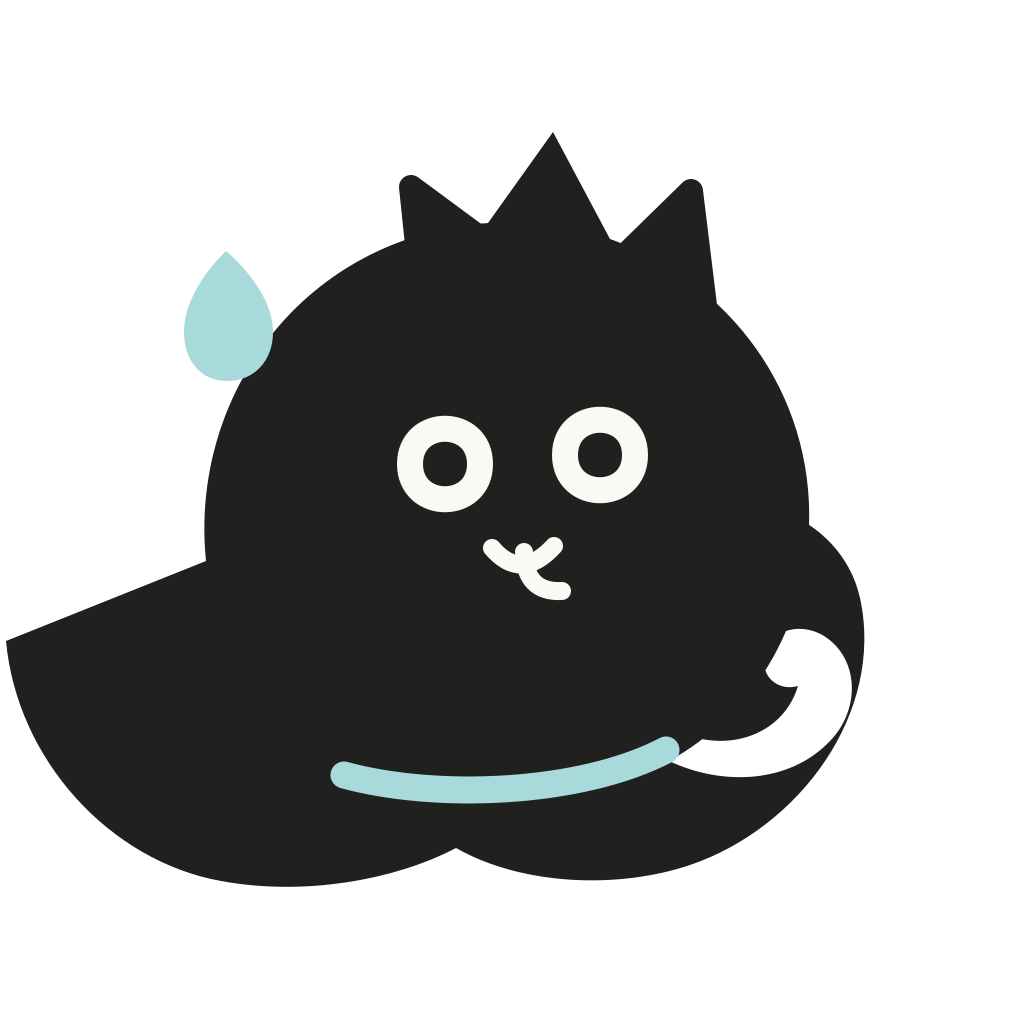
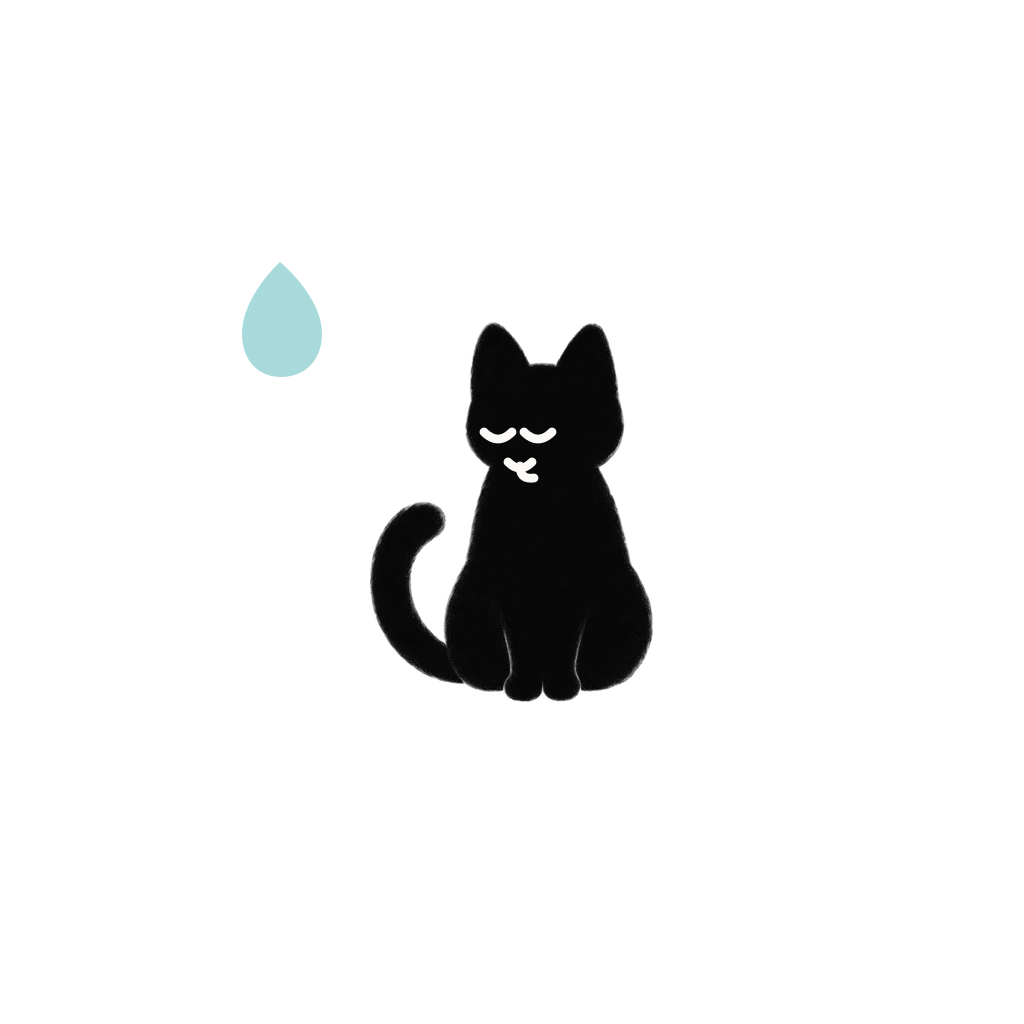
Add files via upload

diff --git a/Mizu/src/components/CatIllustration.tsx b/Mizu/src/components/CatIllustration.tsx
@@ -1,17 +1,25 @@
 import React, { useEffect, useRef } from 'react';
-import { Animated } from 'react-native';
+import { Animated, Image, ImageSourcePropType, StyleSheet, View } from 'react-native';
 import Svg, { G, Path } from 'react-native-svg';
 import { colors as palette } from '../theme';
 import { CatColor, CatMood } from '../types';
 
-type CatPaint = { ink: string; detail: string; eyes: string; outline: string };
+type CatPaint = { body: string; outline: string; face: string; detail: string };
 
 const paints: Record<CatColor, CatPaint> = {
-  white: { ink: '#F2EDE6', detail: '#D2C1B4', eyes: '#343331', outline: '#A99A8E' },
-  black: { ink: '#20211F', detail: '#343632', eyes: '#FAF7F0', outline: '#20211F' },
-  gray: { ink: '#858B87', detail: '#666D68', eyes: '#FAF7F0', outline: '#6B716D' },
-  orange: { ink: '#D38F51', detail: '#AD6838', eyes: '#282724', outline: '#B7753E' },
-  siamese: { ink: '#DED0BE', detail: '#58463D', eyes: '#FAF7F0', outline: '#A49382' },
+  white: { body: '#F1ECE5', outline: '#A99B8F', face: '#292826', detail: '#D4C5B8' },
+  black: { body: '#20211F', outline: '#20211F', face: '#FAF7F0', detail: '#343632' },
+  gray: { body: '#777E79', outline: '#5E6560', face: '#FAF7F0', detail: '#626964' },
+  orange: { body: '#CB8248', outline: '#A96335', face: '#282623', detail: '#A96335' },
+  siamese: { body: '#DACBB8', outline: '#988675', face: '#302C29', detail: '#5B4940' },
+};
+
+const bodySources: Record<CatMood, ImageSourcePropType> = {
+  sleeping: require('../../assets/cats/sleeping.png'),
+  stretching: require('../../assets/cats/stretching.png'),
+  playing: require('../../assets/cats/playing.png'),
+  happy: require('../../assets/cats/happy.png'),
+  celebrating: require('../../assets/cats/celebrating.png'),
 };
 
 const moodLabels: Record<CatMood, string> = {
@@ -22,165 +30,116 @@ const moodLabels: Record<CatMood, string> = {
   celebrating: 'comemorando com as patas para cima',
 };
 
-const Ground = ({ wide = false }: { wide?: boolean }) => (
-  <Path
-    d={wide ? 'M31 184c43-7 151-7 198 1-28 9-163 10-198-1z' : 'M55 185c35-7 117-7 151 0-26 9-121 9-151 0z'}
-    fill="#242424"
-    opacity="0.065"
-  />
-);
-
-const OpenEyes = ({ paint, left, right, scale = 1 }: { paint: CatPaint; left: [number, number]; right: [number, number]; scale?: number }) => (
-  <G fill="none" stroke={paint.eyes} strokeWidth={5 * scale} strokeLinecap="round">
-    <Path d={`M${left[0] - 7 * scale} ${left[1]}c0-${9 * scale} ${14 * scale}-${9 * scale} ${14 * scale} 0s-${14 * scale} ${9 * scale}-${14 * scale} 0z`} />
-    <Path d={`M${right[0] - 7 * scale} ${right[1]}c0-${9 * scale} ${14 * scale}-${9 * scale} ${14 * scale} 0s-${14 * scale} ${9 * scale}-${14 * scale} 0z`} />
+const RingEyes = ({ paint, left, right, size = 7 }: { paint: CatPaint; left: [number, number]; right: [number, number]; size?: number }) => (
+  <G fill="none" stroke={paint.face} strokeWidth="4.2" strokeLinecap="round">
+    <Path d={`M${left[0] - size} ${left[1]}c0-${size + 2} ${size * 2}-${size + 2} ${size * 2} 0s-${size * 2} ${size + 2}-${size * 2} 0z`} />
+    <Path d={`M${right[0] - size} ${right[1]}c0-${size + 2} ${size * 2}-${size + 2} ${size * 2} 0s-${size * 2} ${size + 2}-${size * 2} 0z`} />
   </G>
 );
 
 const ClosedEyes = ({ paint, left, right }: { paint: CatPaint; left: [number, number]; right: [number, number] }) => (
-  <G fill="none" stroke={paint.eyes} strokeWidth="5" strokeLinecap="round">
+  <G fill="none" stroke={paint.face} strokeWidth="4.4" strokeLinecap="round">
     <Path d={`M${left[0] - 7} ${left[1]}q7 7 14 0`} />
     <Path d={`M${right[0] - 7} ${right[1]}q7 7 14 0`} />
   </G>
 );
 
-const FurMarks = ({ paint, color, mood }: { paint: CatPaint; color: CatColor; mood: CatMood }) => {
-  if (color === 'black' || color === 'white') return null;
-  if (color === 'siamese') {
-    const mask = mood === 'sleeping'
-      ? 'M132 88c8-14 29-17 40-4 9 10 8 30-1 39-12 11-36 8-42-5-4-10-2-21 3-30z'
-      : mood === 'stretching'
-        ? 'M72 126c-8-15-1-34 14-40l22-15 19 18c7 15 0 35-14 42-15 8-33 5-41-5z'
-        : mood === 'playing'
-          ? 'M77 102c-7-16 0-35 14-42l22-16 20 20c7 17-2 38-18 44-15 6-31 3-38-6z'
-          : mood === 'happy'
-            ? 'M99 71c-3-18 7-36 24-42l20-10 17 19c10 15 4 39-11 48-17 10-43 5-50-15z'
-            : 'M101 71c-4-18 6-37 23-44l19-11 19 20c9 16 3 39-12 48-17 10-42 4-49-13z';
-    return <Path d={mask} fill={paint.detail} opacity="0.98" />;
+const Face = ({ mood, paint }: { mood: CatMood; paint: CatPaint }) => {
+  if (mood === 'sleeping') {
+    return (
+      <G>
+        <ClosedEyes paint={paint} left={[194, 87]} right={[216, 88]} />
+        <Path d="M201 102q6 5 12 0" fill="none" stroke={paint.face} strokeWidth="3" strokeLinecap="round" />
+        <G fill="none" stroke={palette.waterDark} strokeWidth="3" strokeLinecap="round" opacity="0.72">
+          <Path d="M54 62q8-8 16 0" />
+          <Path d="M42 50q6-6 12 0" />
+        </G>
+      </G>
+    );
   }
 
-  const marks = mood === 'sleeping'
-    ? 'M149 76l-3 13M159 77l1 13M169 81l4 11'
-    : mood === 'stretching'
-      ? 'M91 80l2 13M101 78l4 13M112 79l5 12'
-      : mood === 'playing'
-        ? 'M95 53l2 13M106 51l4 13M117 54l5 11'
-        : mood === 'happy'
-          ? 'M119 35l2 14M132 31l4 15M145 35l5 13'
-          : 'M120 33l2 14M133 30l4 15M146 34l5 13';
-  return <Path d={marks} fill="none" stroke={paint.detail} strokeWidth="4" strokeLinecap="round" opacity="0.78" />;
+  if (mood === 'stretching') {
+    return (
+      <G>
+        <RingEyes paint={paint} left={[80, 128]} right={[98, 126]} size={5.4} />
+        <Path d="M86 141q5 4 10-1" fill="none" stroke={paint.face} strokeWidth="2.8" strokeLinecap="round" />
+        <G fill="none" stroke={palette.beige} strokeWidth="3" strokeLinecap="round">
+          <Path d="M53 125l-10-4M54 136l-12 1" />
+        </G>
+      </G>
+    );
+  }
+
+  if (mood === 'playing') {
+    return (
+      <G>
+        <RingEyes paint={paint} left={[191, 112]} right={[210, 109]} size={5.7} />
+        <Path d="M198 126q5 4 10-1" fill="none" stroke={paint.face} strokeWidth="2.8" strokeLinecap="round" />
+        <Path d="M225 65c0-9 9-17 9-17s10 8 10 17c0 6-4 10-10 10s-9-4-9-10z" fill={palette.waterDark} />
+        <G fill="none" stroke={palette.waterDark} strokeWidth="3" strokeLinecap="round">
+          <Path d="M216 57l-8-5M216 69l-10 2" />
+        </G>
+      </G>
+    );
+  }
+
+  if (mood === 'happy') {
+    return (
+      <G>
+        <ClosedEyes paint={paint} left={[123, 65]} right={[143, 65]} />
+        <Path d="M128 80q6 6 12 0M134 82q0 7 7 6" fill="none" stroke={paint.face} strokeWidth="2.8" strokeLinecap="round" />
+        <Path d="M80 70c0-7 7-13 7-13s8 6 8 13c0 5-3 8-8 8s-7-3-7-8z" fill={palette.waterDark} opacity="0.78" />
+      </G>
+    );
+  }
+
+  return (
+    <G>
+      <RingEyes paint={paint} left={[122, 57]} right={[141, 56]} size={5.6} />
+      <Path d="M128 73q6 7 13 0M134 75q0 8 7 7" fill="none" stroke={paint.face} strokeWidth="2.9" strokeLinecap="round" />
+      <G fill={palette.waterDark}>
+        <Path d="M49 47c0-8 8-15 8-15s9 7 9 15c0 5-4 9-9 9s-8-4-8-9z" />
+        <Path d="M210 44c0-7 7-13 7-13s8 6 8 13c0 5-3 8-8 8s-7-3-7-8z" />
+      </G>
+      <G fill="none" stroke={palette.beige} strokeWidth="3" strokeLinecap="round">
+        <Path d="M39 69l-10-3M42 79l-10 4M222 68l10-6M225 79l11 1" />
+      </G>
+    </G>
+  );
 };
 
-const SleepingCat = ({ paint, color }: { paint: CatPaint; color: CatColor }) => (
-  <G>
-    <Ground />
-    <Path
-      d="M45 142c-4-31 15-65 47-78 22-9 41-6 57 3l18-20 10 29c25 15 38 42 30 66-9 28-46 38-93 37-45-1-66-11-69-37zm120-2c17-4 28-13 28-25 0-10-7-18-16-20 8 18 1 32-12 45z"
-      fill={paint.ink}
-      stroke={paint.outline}
-      strokeWidth="2.6"
-      strokeLinejoin="round"
-    />
-    <FurMarks paint={paint} color={color} mood="sleeping" />
-    <Path d="M62 151c26 18 91 17 119-7-24 5-42 0-57-12-13-10-27-12-40-5-10 5-16 14-22 24z" fill={paint.detail} opacity="0.36" />
-    <ClosedEyes paint={paint} left={[143, 102]} right={[170, 103]} />
-    <Path d="M154 117q5 4 10 0" fill="none" stroke={paint.eyes} strokeWidth="3.2" strokeLinecap="round" />
-    <G fill="none" stroke={palette.waterDark} strokeWidth="3" strokeLinecap="round" opacity="0.68">
-      <Path d="M54 66q8-8 16 0" />
-      <Path d="M42 54q6-6 12 0" />
-    </G>
-  </G>
-);
+const CoatDetails = ({ color, mood, paint }: { color: CatColor; mood: CatMood; paint: CatPaint }) => {
+  if (color !== 'orange' && color !== 'siamese') return null;
+  const head = mood === 'sleeping'
+    ? 'M182 57q22-14 45 2l8 42q-25 18-54 3z'
+    : mood === 'stretching'
+      ? 'M62 108q18-19 42-6l9 37q-25 12-52-1z'
+      : mood === 'playing'
+        ? 'M176 89q23-16 48 1l7 38q-28 13-56-2z'
+        : mood === 'happy'
+          ? 'M109 40q23-17 47 1l4 45q-27 14-53-1z'
+          : 'M108 33q24-17 48 1l5 43q-28 14-54 0z';
 
-const StretchingCat = ({ paint, color }: { paint: CatPaint; color: CatColor }) => (
-  <G>
-    <Ground wide />
-    <Path
-      d="M62 142c-14-9-17-24-8-37 8-11 22-16 37-20l17-23 16 16c26-11 63-7 79 16 13 19 8 43-7 53-8 6-15 2-15-7 0-19 7-40 15-55 9-18 21-31 32-27 9 4 8 16 0 21-8 5-14 17-18 30-2 8-2 20 1 33 5 22-9 40-29 39-15 0-24-10-26-25l-2-13c-16 5-35 6-53 2l-27 32c-8 9-24 6-25-4-1-6 4-12 13-21l15-17-24 16c-12 8-24 2-23-8 1-5 6-10 12-14z"
-      fill={paint.ink}
-      stroke={paint.outline}
-      strokeWidth="2.7"
-      strokeLinejoin="round"
-      strokeLinecap="round"
-    />
-    <FurMarks paint={paint} color={color} mood="stretching" />
-    <OpenEyes paint={paint} left={[88, 108]} right={[113, 104]} scale={0.85} />
-    <Path d="M99 121q5 4 10-1" fill="none" stroke={paint.eyes} strokeWidth="3" strokeLinecap="round" />
-    <G fill="none" stroke={palette.beige} strokeWidth="3" strokeLinecap="round">
-      <Path d="M42 105l-10-5M44 116l-13 1" />
-    </G>
-  </G>
-);
+  if (color === 'siamese') return <Path d={head} fill={paint.detail} opacity="0.9" />;
 
-const PlayingCat = ({ paint, color }: { paint: CatPaint; color: CatColor }) => (
-  <G>
-    <Ground wide />
-    <Path
-      d="M47 139c-8-19 2-43 24-55l18-29 18 15 18-23 15 29c25 10 43 34 44 61l23-22c8-8 20-8 24-1 4 8-1 16-11 20l-30 13c-5 22-26 34-55 33-29-1-51-13-61-31l-25 12c-11 5-20-1-18-10 1-5 7-9 16-12z"
-      fill={paint.ink}
-      stroke={paint.outline}
-      strokeWidth="2.7"
-      strokeLinejoin="round"
-      strokeLinecap="round"
-    />
-    <FurMarks paint={paint} color={color} mood="playing" />
-    <OpenEyes paint={paint} left={[94, 91]} right={[121, 86]} scale={0.92} />
-    <Path d="M105 108q5 5 11 0" fill="none" stroke={paint.eyes} strokeWidth="3" strokeLinecap="round" />
-    <Path d="M210 81c0-10 10-19 10-19s11 9 11 19c0 7-5 12-11 12s-10-5-10-12z" fill={palette.waterDark} />
-    <G fill="none" stroke={palette.waterDark} strokeWidth="3" strokeLinecap="round">
-      <Path d="M195 74l-9-5M195 84l-11 2" />
-    </G>
-  </G>
-);
-
-const HappyCat = ({ paint, color }: { paint: CatPaint; color: CatColor }) => (
-  <G>
-    <Ground />
-    <Path
-      d="M70 166c-2-19 10-33 30-39l3-37c1-17 8-30 20-38l-2-28 22 17 21-20 5 30c14 8 21 23 20 43l-2 42c14 7 31 8 42-2 8-8 7-20-1-25-6-4-13-1-13 5 0 5 4 7 8 6-2 12-17 16-27 9-11-8-13-25-4-37 11-15 33-17 47-5 17 15 15 44-3 61-16 15-42 19-64 10-11 15-31 23-55 23-30 0-49-10-51-25z"
-      fill={paint.ink}
-      stroke={paint.outline}
-      strokeWidth="2.7"
-      strokeLinejoin="round"
-      strokeLinecap="round"
-    />
-    <FurMarks paint={paint} color={color} mood="happy" />
-    <Path d="M119 116c-2 22-1 42 2 59M151 115c3 22 3 42 0 60" fill="none" stroke={paint.detail} strokeWidth="4" strokeLinecap="round" opacity="0.68" />
-    <ClosedEyes paint={paint} left={[130, 71]} right={[158, 70]} />
-    <Path d="M140 88q5 6 11 0M145 88q0 8 7 7" fill="none" stroke={paint.eyes} strokeWidth="3" strokeLinecap="round" />
-    <Path d="M85 70c0-7 7-13 7-13s8 6 8 13c0 5-3 8-8 8s-7-3-7-8z" fill={palette.waterDark} opacity="0.7" />
-  </G>
-);
-
-const CelebratingCat = ({ paint, color }: { paint: CatPaint; color: CatColor }) => (
-  <G>
-    <Ground />
-    <Path
-      d="M91 177c-8-10-4-22 7-30l7-48-29-35c-7-9-5-20 3-24 8-4 16 2 20 12l14 29 8-32-1-27 22 17 21-21 5 29-1 34 16-31c5-10 15-14 22-9 8 6 7 16-1 24l-27 31 10 49c12 7 17 20 10 30-7 10-24 9-34-1-15 8-34 8-49 0-10 10-26 12-33 3z"
-      fill={paint.ink}
-      stroke={paint.outline}
-      strokeWidth="2.7"
-      strokeLinejoin="round"
-      strokeLinecap="round"
-    />
-    <FurMarks paint={paint} color={color} mood="celebrating" />
-    <OpenEyes paint={paint} left={[132, 70]} right={[158, 68]} scale={0.92} />
-    <Path d="M141 88q6 7 13 0M147 89q0 9 8 8" fill="none" stroke={paint.eyes} strokeWidth="3" strokeLinecap="round" />
-    <G fill={palette.waterDark}>
-      <Path d="M48 51c0-9 9-17 9-17s10 8 10 17c0 6-4 10-10 10s-9-4-9-10z" />
-      <Path d="M211 45c0-8 8-15 8-15s9 7 9 15c0 5-4 9-9 9s-8-4-8-9z" />
-    </G>
-    <G fill="none" stroke={palette.beige} strokeWidth="3" strokeLinecap="round">
-      <Path d="M39 77l-11-3M43 87l-11 4M221 73l10-6M225 84l12 1" />
-    </G>
-  </G>
-);
+  const stripes = mood === 'sleeping'
+    ? 'M192 59l2 13M203 56l4 14M214 58l5 12'
+    : mood === 'stretching'
+      ? 'M77 104l2 11M87 101l4 12M98 104l5 10'
+      : mood === 'playing'
+        ? 'M190 90l2 12M201 87l4 13M212 91l5 10'
+        : mood === 'happy'
+          ? 'M122 42l2 13M133 39l4 14M145 42l5 11'
+          : 'M121 36l2 13M133 33l4 14M145 36l5 11';
+  return <Path d={stripes} fill="none" stroke={paint.detail} strokeWidth="3.4" strokeLinecap="round" opacity="0.82" />;
+};
 
 interface Props { color: CatColor; mood: CatMood; size?: number }
 
 export const CatIllustration = ({ color, mood, size = 188 }: Props) => {
   const scale = useRef(new Animated.Value(1)).current;
   const translateY = useRef(new Animated.Value(0)).current;
+  const paint = paints[color];
 
   useEffect(() => {
     Animated.parallel([
@@ -195,16 +154,41 @@ export const CatIllustration = ({ color, mood, size = 188 }: Props) => {
     ]).start();
   }, [mood, scale, translateY]);
 
-  const paint = paints[color];
   return (
-    <Animated.View accessibilityRole="image" accessibilityLabel={`Gatinho ${moodLabels[mood]}`} style={{ transform: [{ translateY }, { scale }] }}>
-      <Svg width={size} height={size * 0.81} viewBox="0 0 260 210">
-        {mood === 'sleeping' ? <SleepingCat paint={paint} color={color} /> : null}
-        {mood === 'stretching' ? <StretchingCat paint={paint} color={color} /> : null}
-        {mood === 'playing' ? <PlayingCat paint={paint} color={color} /> : null}
-        {mood === 'happy' ? <HappyCat paint={paint} color={color} /> : null}
-        {mood === 'celebrating' ? <CelebratingCat paint={paint} color={color} /> : null}
+    <Animated.View
+      accessibilityRole="image"
+      accessibilityLabel={`Gatinho ${moodLabels[mood]}`}
+      style={[styles.frame, { width: size, height: size * 0.81, transform: [{ translateY }, { scale }] }]}
+    >
+      <PathlessShadow />
+      {color === 'white' ? (
+        <Image source={bodySources[mood]} resizeMode="contain" style={[styles.body, styles.outline, { tintColor: paint.outline }]} />
+      ) : null}
+      <Image source={bodySources[mood]} resizeMode="contain" style={[styles.body, { tintColor: paint.body }]} />
+      <Svg pointerEvents="none" style={StyleSheet.absoluteFill} viewBox="0 0 260 210">
+        <CoatDetails color={color} mood={mood} paint={paint} />
+        <Face mood={mood} paint={paint} />
       </Svg>
     </Animated.View>
   );
 };
+
+const PathlessShadow = () => (
+  <View pointerEvents="none" style={styles.shadow} />
+);
+
+const styles = StyleSheet.create({
+  frame: { position: 'relative' },
+  body: { position: 'absolute', inset: 0, width: '100%', height: '100%' },
+  outline: { transform: [{ scale: 1.035 }] },
+  shadow: {
+    position: 'absolute',
+    left: '18%',
+    right: '18%',
+    bottom: '5%',
+    height: 8,
+    borderRadius: 999,
+    backgroundColor: '#242424',
+    opacity: 0.065,
+  },
+});

diff --git a/Mizu/src/screens/ProfileScreen.tsx b/Mizu/src/screens/ProfileScreen.tsx
@@ -90,7 +90,7 @@ export const ProfileScreen = () => {
         <View style={styles.divider}/>
         <Pressable accessibilityRole="button" onPress={() => Alert.alert('Limpar todos os dados?', 'Histórico, configurações e personalização serão apagados. Essa ação não pode ser desfeita.', [{ text: 'Cancelar', style: 'cancel' }, { text: 'Limpar', style: 'destructive', onPress: () => void clearEverything() }])} style={styles.appRow}><Text style={styles.danger}>Limpar dados</Text><Text style={styles.chevron}>›</Text></Pressable>
         <View style={styles.divider}/>
-        <View style={styles.appRow}><View><Text style={styles.settingTitle}>Sobre o Mizu</Text><Text style={styles.description}>Versão 1.2.0 · dados apenas no aparelho</Text></View></View>
+        <View style={styles.appRow}><View><Text style={styles.settingTitle}>Sobre o Mizu</Text><Text style={styles.description}>Versão 1.2.1 · dados apenas no aparelho</Text></View></View>
       </Card>
     </Screen>
   );

diff --git a/Mizu/README.md b/Mizu/README.md
@@ -2,9 +2,9 @@
 
 Mizu é um MVP funcional de hidratação para iOS e Android, feito com React Native, Expo e TypeScript. O app calcula uma meta inicial estimada, registra água em um toque, mantém histórico local, agenda lembretes dentro da rotina e usa um gatinho original como companhia visual.
 
-## Atualização visual 1.2
+## Atualização visual 1.2.1
 
-- personagem totalmente redesenhado como ilustração de tinta orgânica, com silhueta contínua;
+- personagem produzido como ilustração de tinta orgânica, com textura de pincel e silhueta contínua;
 - cinco poses inteiramente diferentes para cada nível de hidratação;
 - nova tigela com preenchimento vertical animado e porcentagem integrada;
 - ícones finos e arredondados na navegação e nas ações principais;

diff --git a/Mizu/CHANGELOG.md b/Mizu/CHANGELOG.md
@@ -1,5 +1,12 @@
 # Changelog
 
+## 1.2.1 — Correção das ilustrações
+
+- Substituídos os gatos vetoriais simplificados por cinco ilustrações raster originais com textura de tinta e bordas de pincel.
+- Mantidas as cinco pelagens por coloração não destrutiva das ilustrações.
+- Rostos e detalhes de água reposicionados para cada pose.
+- Ícone e splash refeitos com margens compatíveis com as máscaras dos launchers Android.
+
 ## 1.2.0 — Personagem ilustrado e teclado
 
 - Gatinho totalmente redesenhado em uma linguagem original de tinta orgânica, sem construção por formas geométricas.
